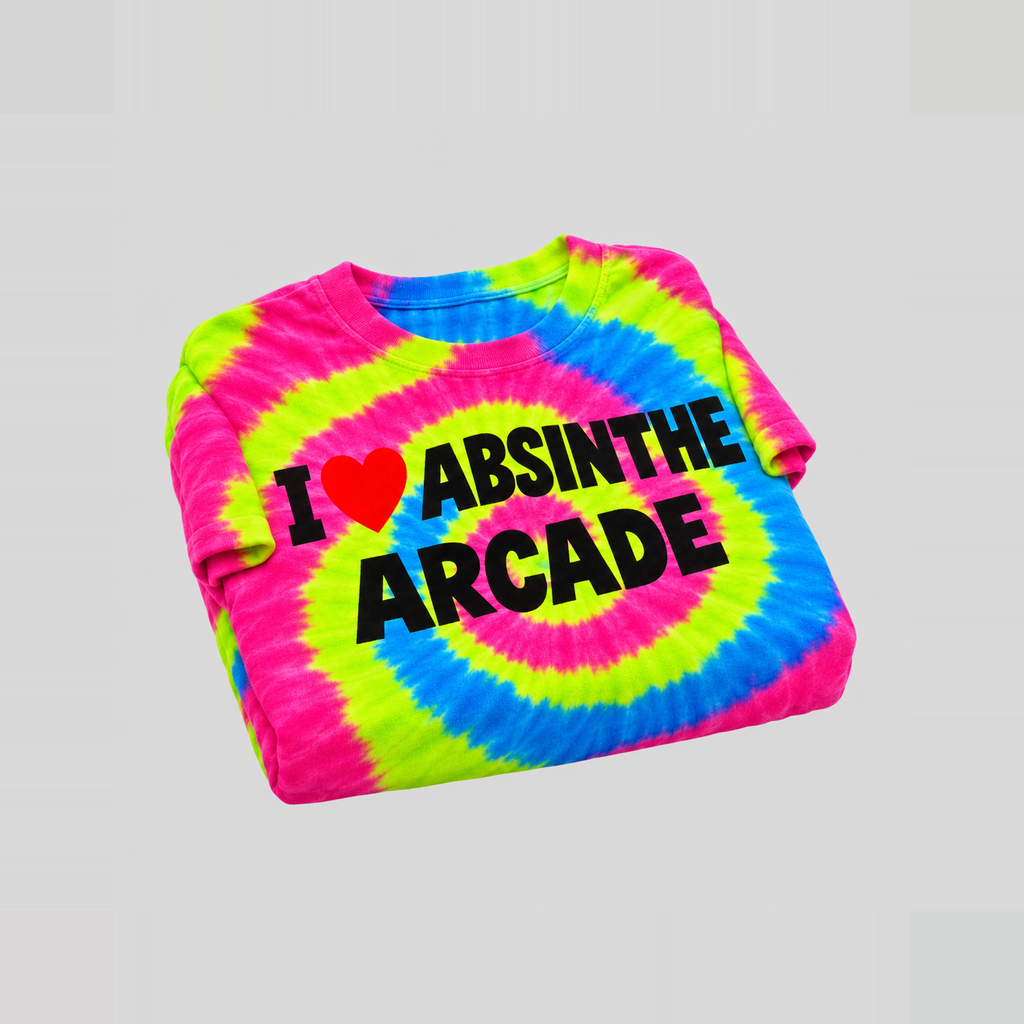
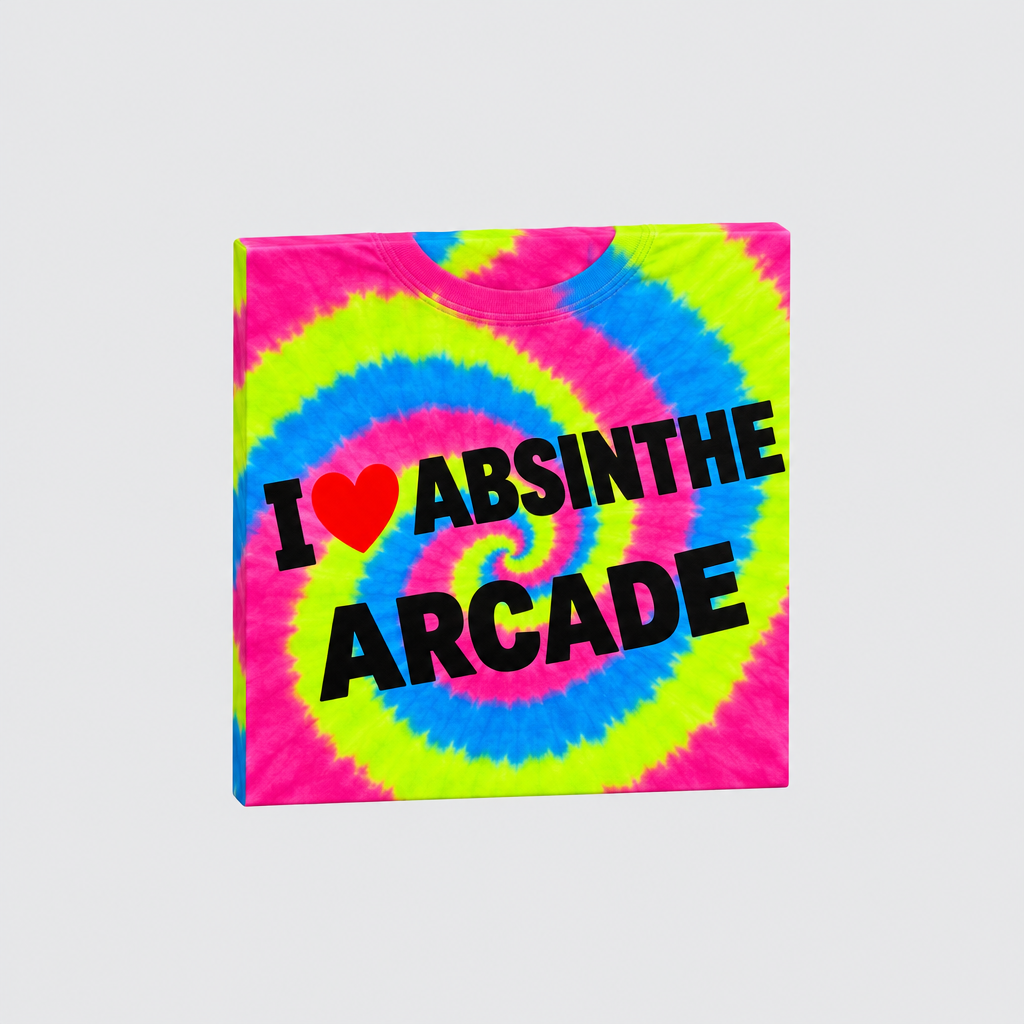
art(debaucheryville): tie-dye tee reference 2, flat boxy slab (asset team, A3 pending)
Claude-Session: https://claude.ai/code/session_01Rk2Ri3vAu7TBhRadSU9CbJ

Changed region(s): [[0.1562, 0.2188, 0.8438, 0.8125]]

diff --git a/dev/asset_team/icon_refs/aa_prize_two_grand_tie_dye_tee_prompt.md b/dev/asset_team/icon_refs/aa_prize_two_grand_tie_dye_tee_prompt.md
@@ -1,8 +1,7 @@
-# aa_prize_two_grand_tie_dye_tee (Two-Grand Tie-Dye Tee): 3D icon reference prompt (round 1)
+# aa_prize_two_grand_tie_dye_tee (Two-Grand Tie-Dye Tee): 3D icon reference prompt, ref 2 (Tripo build 2)
 
-Firefly home, GPT Image 2.6 Sunburst, 1:1, Quality High, no references. Generated at 1K.
-Canon: key_items.json line 105; absinthe_arcade_prize_catalogue.md line 45 ("printed slightly crooked with I ♥ ABSINTHE ARCADE"). Lettering: I ♥ ABSINTHE ARCADE, read letter by letter, correct. Tie-dye colours (pink, blue, yellow-green) are not in the doc; a tie-dye needs several colours.
-Mechanical fix: first generation had 6.4 percent side margin, so it was padded with edge-replicated grey and shrunk (Pillow, no redraw). Final margins L16.0 R16.3 T22.9 B21.4.
-Shows: a thick folded tee slab, neon spiral tie-dye, the exact text on two lines with a red heart. Fabric is photoreal; Tripo sees a solid folded slab.
+Round-1 ref is in git history. A4 failed the first build on lumpy, slumped geometry and fold-smeared lettering. Ref 2: Firefly, GPT Image 2.6 Sunburst, 1:1, Quality High, no references, fresh generation, no pixel edits. Margins L22.7 R22.8 T21.7 B21.2 (Pillow).
+Canon: key_items.json line 105; absinthe_arcade_prize_catalogue.md line 45. Lettering I ♥ ABSINTHE ARCADE read letter by letter, correct.
+Shows: the shirt as one flat boxy slab, crisp square edges, one flat tie-dye front panel with the print, collar printed flat, no sleeves or fold creases.
 
-Prompt: A single cheap over-the-top novelty tie-dye T-shirt prize, centred in a flat light-grey square, filling about 60 percent of the frame with a wide empty margin on every side. The shirt is shown as one chunky, thick, neatly folded stack, a fat solid rectangular slab with short stubby folded sleeves tucked in, seen from a high three-quarter angle. Bold psychedelic spiral tie-dye in huge simple swirl bands of hot pink, electric blue and acid yellow-green. Printed slightly crooked across the chest in big chunky bold block capital letters, exactly this text on two lines: "I ♥ ABSINTHE" then "ARCADE", with a big solid red heart symbol. Lettering must be spelled exactly I ♥ ABSINTHE ARCADE, nothing else written. No other text, no numbers, no tags, no hanger, no hands, no people, no thin loose parts, no shadows. Square image.
+Prompt: A single novelty tie-dye T-shirt prize, centred in a flat very light grey square, filling about 55 percent of the frame with a wide empty margin on every side. The shirt is pressed into one perfectly flat, rigid, boxy rectangular slab, like a stiff folded shirt in a retail package, with crisp square edges and sharp corners, uniform thickness, no sleeves sticking out, no collar sticking out, no loose fabric, no wrinkles, no deep fold creases, no lumps. One smooth flat front panel faces the viewer, seen from a slight high three-quarter angle so the thin side edge shows. Bold psychedelic spiral tie-dye on the flat front panel in huge simple swirl bands of hot pink, electric blue and acid yellow-green. Printed slightly crooked across the middle of the flat front panel in big chunky bold block capital letters, black, exactly this text on two lines: "I ♥ ABSINTHE" then "ARCADE", with a big solid red heart symbol. Lettering must be spelled exactly I ♥ ABSINTHE ARCADE, nothing else written. No other text, no numbers, no tags, no hanger, no hands, no people, no shadows. Square image.
